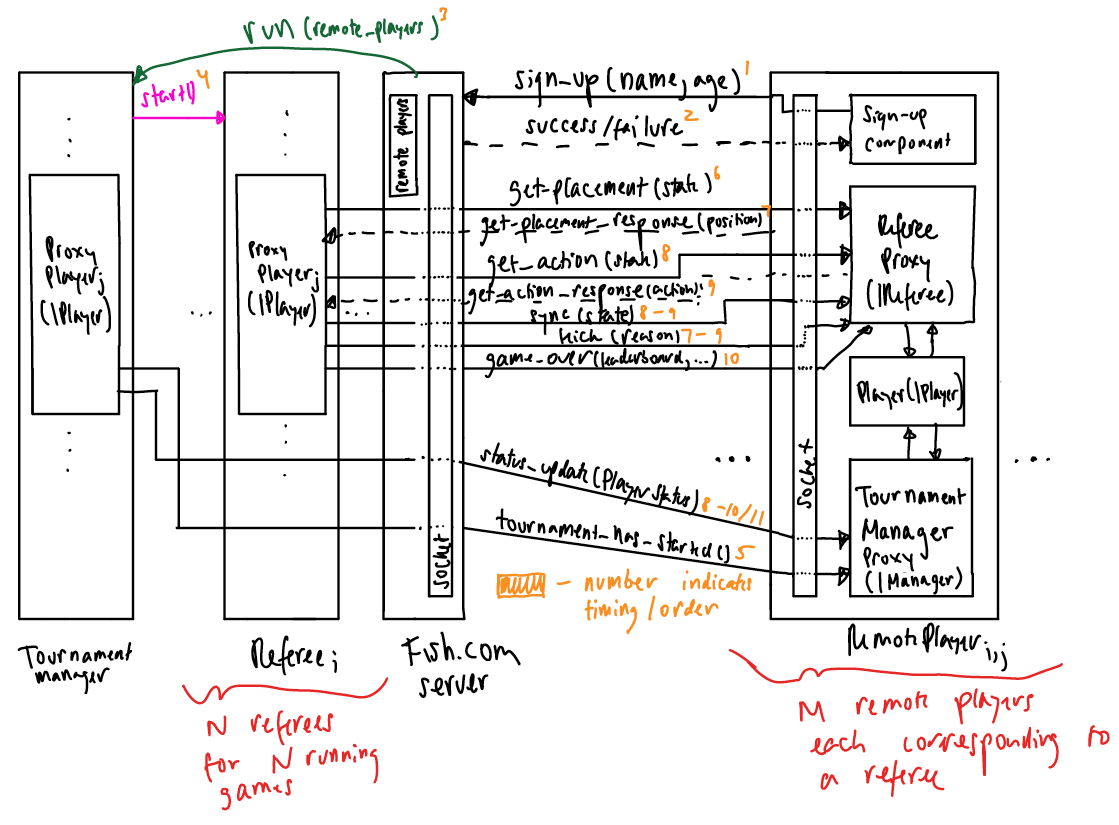
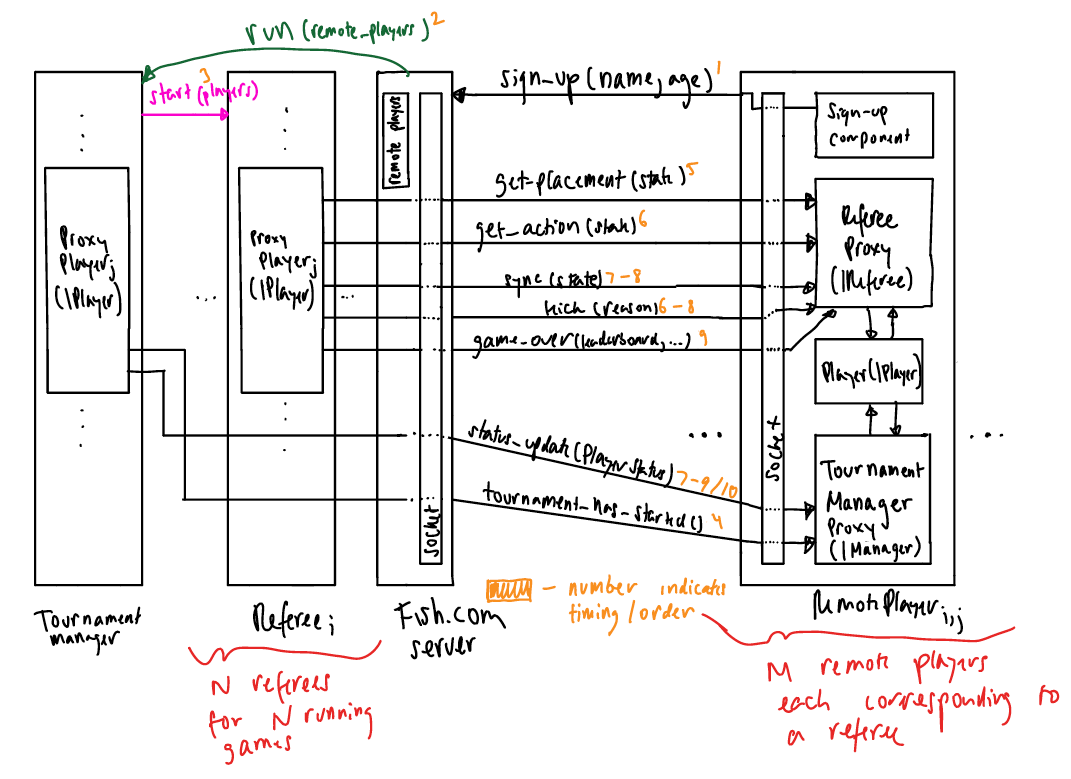
updated remote

Changed region(s): [[0.0, 0.0, 1.0, 0.9859], [0.7703, 0.8318, 0.8319, 0.8626]]

diff --git a/Fish/Planning/remote.md b/Fish/Planning/remote.md
@@ -32,10 +32,12 @@ starts and sends status updates to players while the tournament is in progress.
 
 The referee component of the server is responsible for running individual games within the tournament. It first receives
 2-4 players from the tournament manager component. The referee then prompts players to make penguin placements during
-the placement phase and move actions after the placement phase via the proxy player. Upon receiving the penguin
-placements and move actions from players, the referee sends a response to remote players via the proxy player in regards
-to whether the action was successful. Additionally, the referee will provide the remote player with a sync'd gamestate,
-a notification regarding if the player is kicked from their game, and a notification of when a player's game is over.
+the placement phase and move actions after the placement phase via the proxy player. If the player failed or cheated
+in making an action, the referee will send a kick response to remote players via the proxy player with the reason
+why they were kicked. Additionally, the referee will provide the remote player with a sync'd gamestate after every
+game state change. At the end of each game, the referee will also send the players a game_over message indicating the
+leaderboard, list of cheating players and of failing players, as well as a status update indicating whether the player
+has lost the game (and tournament), won the game or won the tournament.
 
 #### Player
 
@@ -52,8 +54,21 @@ from their game, and a notification of when a player's game is over.
 
 The remote player also has a tournament manager proxy to interact with the Fish.com server's tournament manager. The
 tournament manager proxy receives a notification when the tournament has started and for all status updates relevant
-to the player. This includes if the player won or lost a game and if the player won the tournament.
+to the player (it tells if the player won or lost a game and/or the player won the tournament).
     
 #### Message Formats
 
 Messages between the administrative and player sides will be in JSON format.
+
+| Order # | Message                | Params (input)                                                             | Return (output)     | Description                                                                                                                                                                                    |
+|---------|------------------------|----------------------------------------------------------------------------|---------------------|------------------------------------------------------------------------------------------------------------------------------------------------------------------------------------------------|
+| 1       | sign_up                | name: str, age: int                                                        | ack: bool           | Return of True indicates successful sign-up.                                                                                                                                                   |
+| 2       | run                    | remote_players: IPlayer                                                    | -                   | Kicks off tournament once enough players have signed up.                                                                                                                                       |
+| 3       | start                  | game_players: IPlayer                                                      | -                   | Used by manager to kick off a game (in a round).                                                                                                                                               |
+| 4       | tournament_has_started | -                                                                          | ack: bool           | Return of True indicates player's acknowledgement. Failure to return True will result in the Player being removed.                                                                             |
+| 5       | get_placement          | state: State                                                               | placement: Position | Retrieves the player's placement.                                                                                                                                                              |
+| 6       | get_action             | state: State                                                               | move: (Action)      | Retrieves the player's move.                                                                                                                                                                   |
+| 7-8     | sync                   | state: State                                                               | -                   | Synchronizes the RemotePlayer with the latest game state.                                                                                                                                      |
+| 6-8     | kick                   | reason: str                                                                | -                   | Notifies remote player they are being removed.                                                                                                                                                 |
+| 9       | game_over              | leaderboard: dict, cheating_players: [IPlayer], failing_players: [IPlayer] | -                   | Provides player with the final game report.                                                                                                                                                    |
+| 7-9/10  | status_update          | player_status: PlayerStatus                                                | ack: bool           | Notifies remote player of whether they lost a game, won a game or won the tournament. The result must be acknowledged by the player by returning True, or else they are marked out as a loser. |
